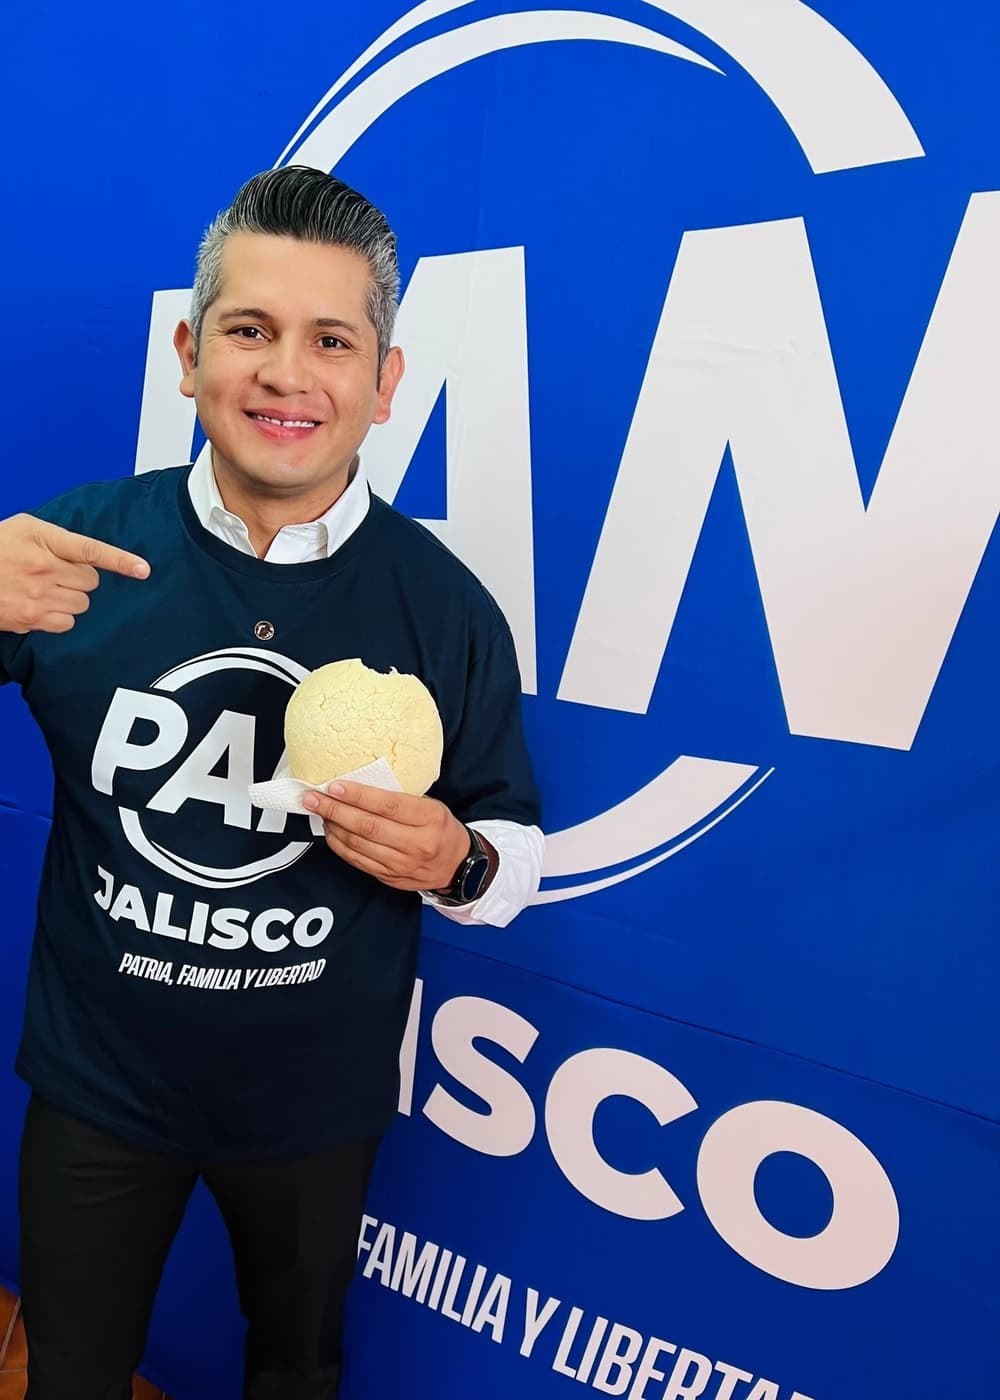
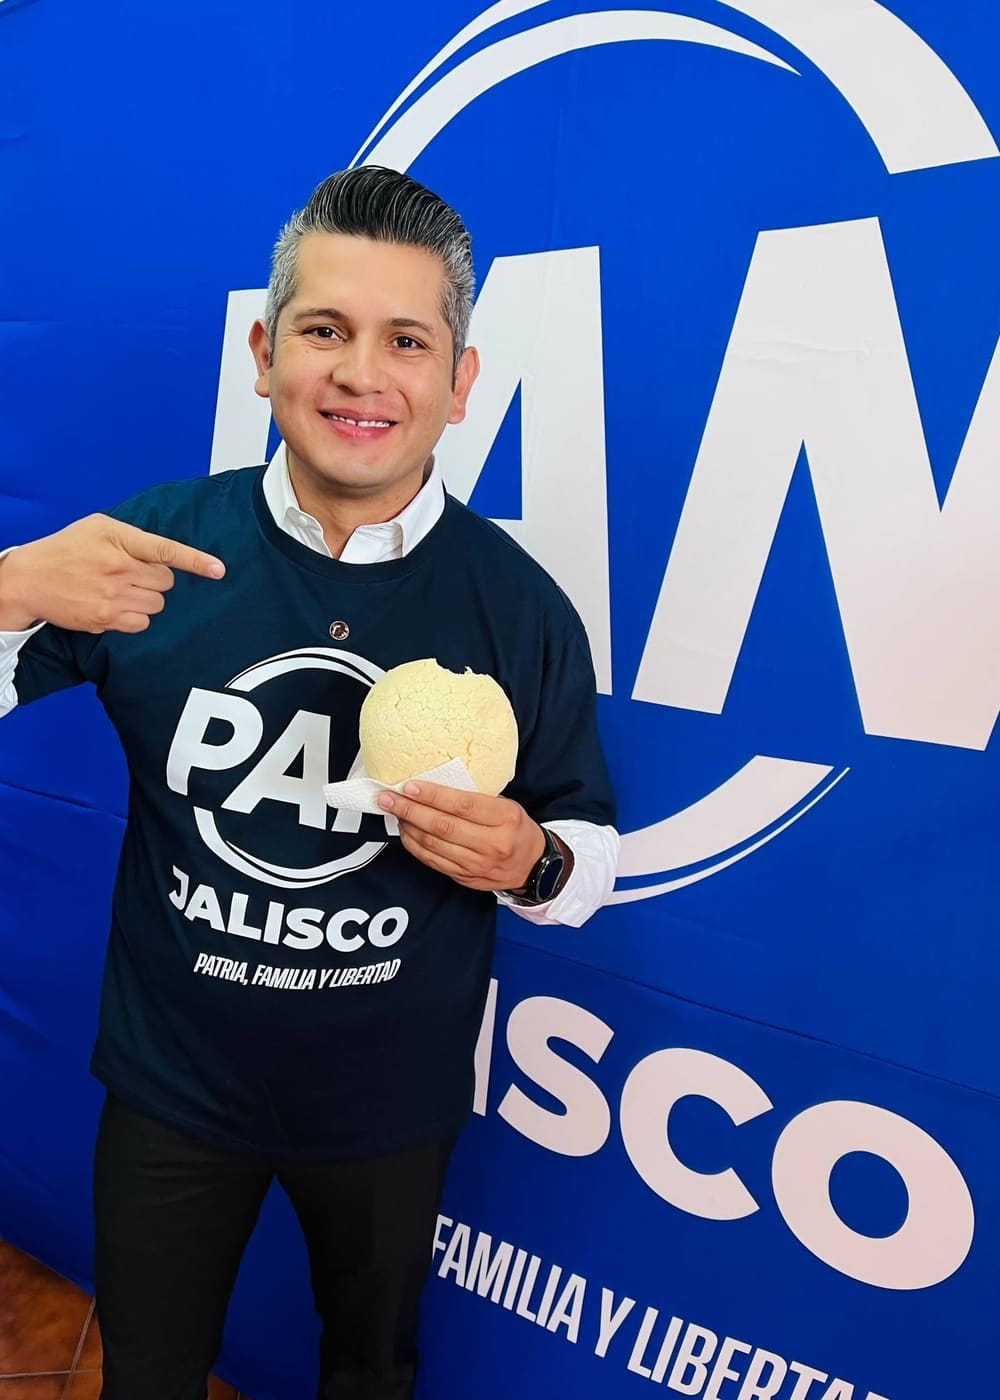
fix(login): recorta bien la foto para que no le tape la cara al cliente
El recorte automático por saliencia dejaba dos problemas: en escritorio cortaba
la parte superior de la cabeza, y en móvil el título caía justo encima del
rostro.

Se sustituye por dos recortes explícitos de la misma foto. El vertical conserva
toda la altura del original y recorta a lo ancho, de modo que la cara queda en
el tercio superior y abajo sobra fondo para el degradado y el texto. La banda
horizontal encuadra el rostro para móvil, donde un solo archivo recortado por
CSS lo dejaba fuera de cuadro.

En la banda el rostro cae a la izquierda, así que ahí el texto se alinea a la
derecha y deja la cara despejada; en el panel vertical vuelve a la izquierda.

Se elimina tonala-posible.jpg, generada en el mismo cambio y sin usar.

Verificado en 375 px y en escritorio: la cabeza entra completa con aire arriba
y el título ya no se superpone al rostro en ninguno de los dos tamaños.

diff --git a/apps/web/app/login/page.tsx b/apps/web/app/login/page.tsx
@@ -280,18 +280,27 @@ export default function LoginPage() {
     // a la vista sin desplazarse, no una portada a pantalla completa.
     <main className="min-h-screen bg-white lg:grid lg:grid-cols-[1.05fr_1fr]">
       <section className="relative flex h-44 flex-col justify-end overflow-hidden bg-[#0b1f3a] p-6 sm:h-56 lg:h-auto lg:p-12">
-        <img
-          src="/media/edgar-retrato.jpg"
-          alt="Edgar López en el Comité Directivo del PAN Jalisco"
-          className="absolute inset-0 h-full w-full object-cover object-top"
-        />
+        {/* Dos recortes de la misma foto: uno vertical para el panel y una banda
+            horizontal encuadrada en el rostro para móvil. Un solo archivo
+            recortado por CSS dejaba la cara fuera de cuadro en una de las dos. */}
+        <picture>
+          <source media="(min-width: 1024px)" srcSet="/media/edgar-retrato.jpg" />
+          <img
+            src="/media/edgar-banner.jpg"
+            alt="Edgar López en el Comité Directivo del PAN Jalisco"
+            className="absolute inset-0 h-full w-full object-cover object-[35%_28%] lg:object-top"
+          />
+        </picture>
         <div className="absolute inset-0 bg-gradient-to-t from-[#0b1f3a] via-[#0b1f3a]/75 to-[#0b1f3a]/20 lg:bg-gradient-to-tr lg:from-[#0b1f3a] lg:via-[#0b1f3a]/80 lg:to-transparent" />
 
-        <div className="relative flex flex-col gap-3 lg:gap-6">
+        {/* En la banda de móvil el rostro cae a la izquierda del encuadre, así que
+            el texto se alinea a la derecha para no taparlo. En el panel vertical
+            de escritorio hay aire de sobra abajo y vuelve a la izquierda. */}
+        <div className="relative flex flex-col items-end gap-3 text-right lg:items-start lg:gap-6 lg:text-left">
           <p className="text-[11px] font-bold uppercase tracking-[0.22em] text-white/70">
             Edgar López
           </p>
-          <h2 className="max-w-md text-2xl font-black leading-tight text-white text-balance sm:text-3xl lg:text-5xl">
+          <h2 className="max-w-[62%] text-2xl font-black leading-tight text-white text-balance sm:text-3xl lg:max-w-md lg:text-5xl">
             Un Tonalá Posible
           </h2>
           <p className="hidden max-w-sm text-sm leading-relaxed text-white/80 lg:block">
